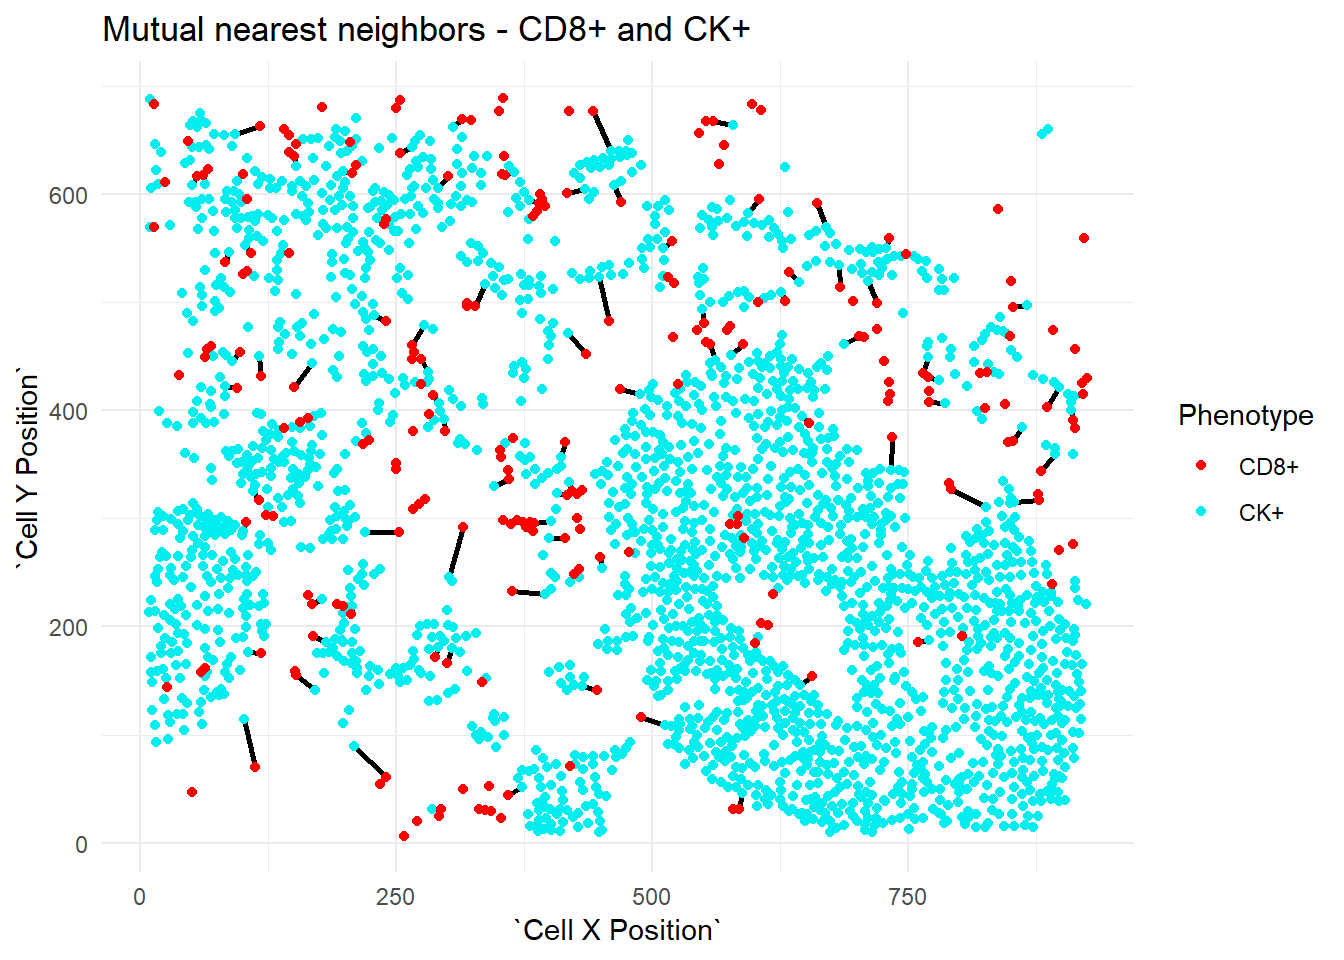
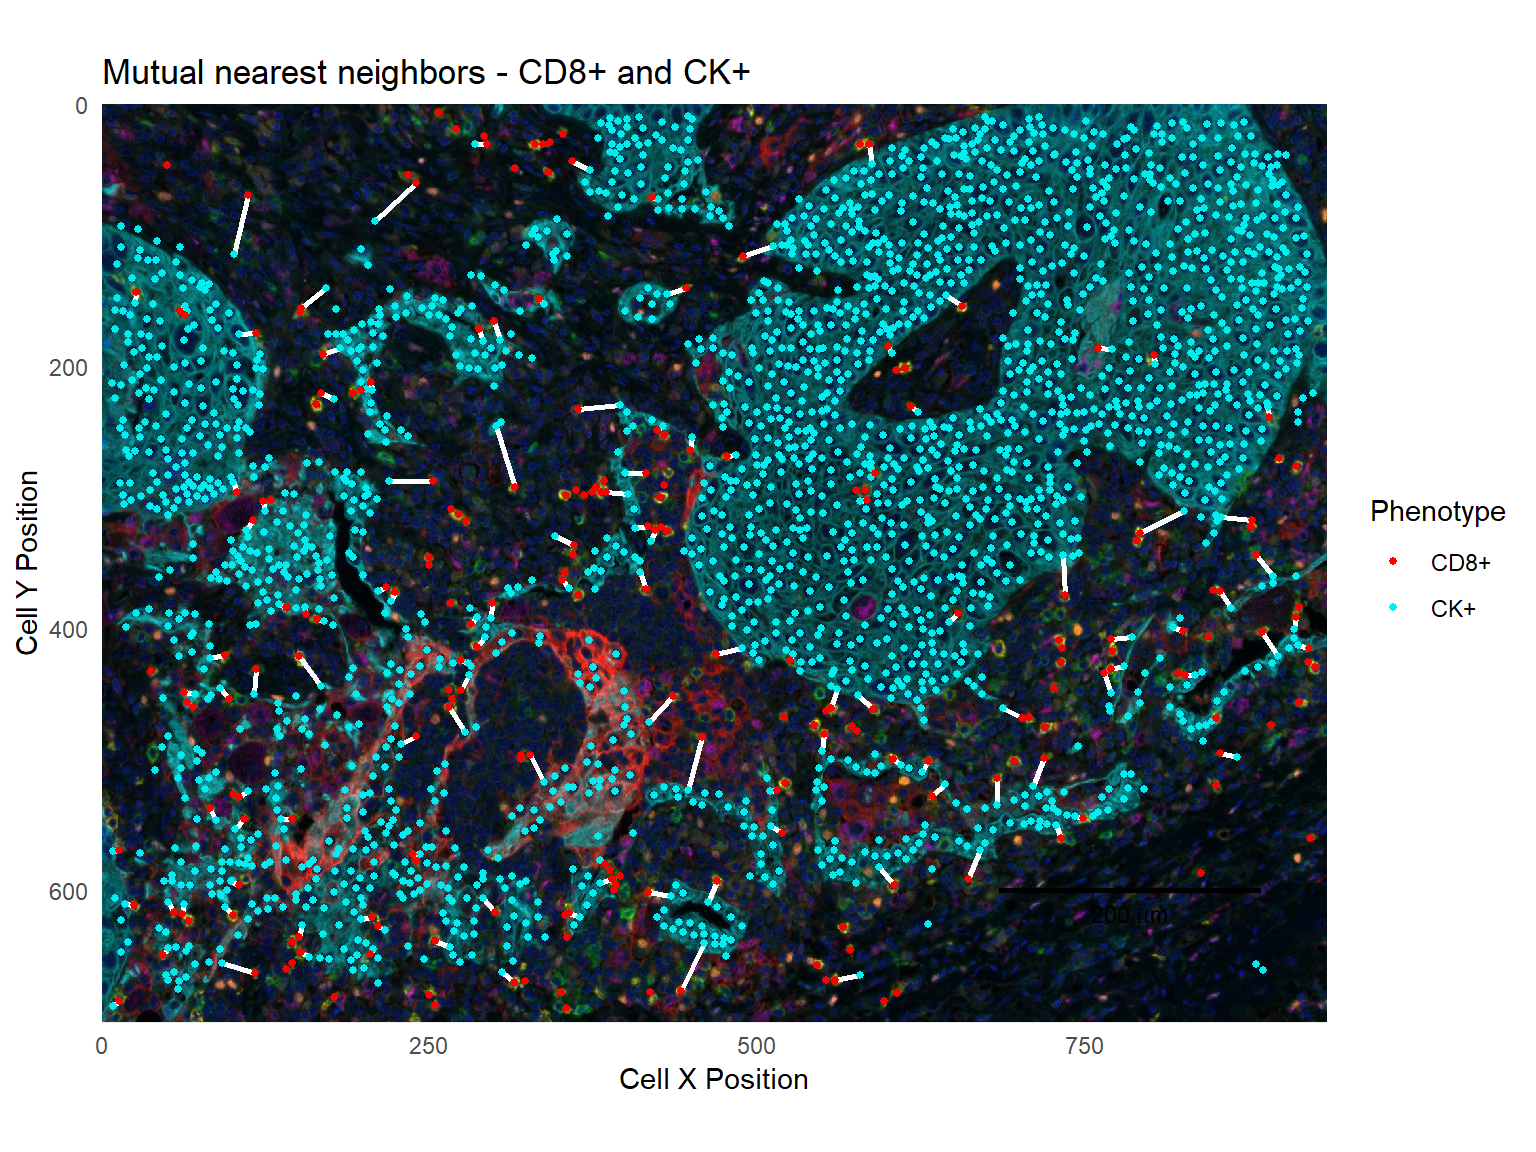
First cut at showing tissue background in Spatial Distribution Report.

diff --git a/docs/articles/computing_distances.html b/docs/articles/computing_distances.html
@@ -100,7 +100,7 @@
       <h1>Computing inter-cellular distances</h1>
                         <h4 class="author">Kent Johnson</h4>
             
-            <h4 class="date">2019-05-10</h4>
+            <h4 class="date">2019-05-14</h4>
       
       
       <div class="hidden name"><code>computing_distances.Rmd</code></div>
@@ -196,25 +196,36 @@ $ `Cell ID FoxP3+`     &lt;int&gt; 117, 214, 229, 138, 229, 102, 66, 229, 22...<
 <a class="sourceLine" id="cb14-6" title="6">cd8_to_ck =<span class="st"> </span>cd8_cells <span class="op">%&gt;%</span><span class="st"> </span><span class="kw">left_join</span>(ck_cells, <span class="dt">by=</span><span class="kw"><a href="https://www.rdocumentation.org/packages/base/topics/c">c</a></span>(<span class="st">'Cell ID CK+'</span>=<span class="st">'Cell ID'</span>),</a>
 <a class="sourceLine" id="cb14-7" title="7">                                    <span class="dt">suffix=</span><span class="kw"><a href="https://www.rdocumentation.org/packages/base/topics/c">c</a></span>(<span class="st">''</span>, <span class="st">'.CK'</span>))</a></code></pre></div>
 <p>Show the CD8+ and CK+ cells with the nearest neighbors connected:</p>
-<div class="sourceCode" id="cb15"><pre class="sourceCode r"><code class="sourceCode r"><a class="sourceLine" id="cb15-1" title="1"><span class="kw">ggplot</span>(cd8_to_ck, <span class="dt">mapping=</span><span class="kw">aes</span>(<span class="st">`</span><span class="dt">Cell X Position</span><span class="st">`</span>, <span class="st">`</span><span class="dt">Cell Y Position</span><span class="st">`</span>)) <span class="op">+</span></a>
-<a class="sourceLine" id="cb15-2" title="2"><span class="st">  </span><span class="kw">geom_segment</span>(<span class="kw">aes</span>(<span class="dt">xend=</span><span class="st">`</span><span class="dt">Cell X Position.CK</span><span class="st">`</span>, <span class="dt">yend=</span><span class="st">`</span><span class="dt">Cell Y Position.CK</span><span class="st">`</span>),</a>
-<a class="sourceLine" id="cb15-3" title="3">               <span class="dt">size=</span><span class="dv">1</span>) <span class="op">+</span></a>
-<a class="sourceLine" id="cb15-4" title="4"><span class="st">  </span><span class="kw">geom_point</span>(<span class="dt">data=</span>ck_cells, <span class="kw">aes</span>(<span class="dt">color=</span><span class="st">'CK+'</span>)) <span class="op">+</span></a>
-<a class="sourceLine" id="cb15-5" title="5"><span class="st">  </span><span class="kw">geom_point</span>(<span class="dt">data=</span>cd8_cells, <span class="kw">aes</span>(<span class="dt">color=</span><span class="st">'CD8+'</span>)) <span class="op">+</span></a>
-<a class="sourceLine" id="cb15-6" title="6"><span class="st">  </span><span class="kw">scale_color_manual</span>(<span class="st">'Phenotype'</span>, <span class="dt">values=</span><span class="kw"><a href="https://www.rdocumentation.org/packages/base/topics/c">c</a></span>(<span class="st">'CD8+'</span>=<span class="st">'red'</span>, <span class="st">'CK+'</span>=<span class="st">'cyan2'</span>)) <span class="op">+</span></a>
-<a class="sourceLine" id="cb15-7" title="7"><span class="st">  </span><span class="kw">labs</span>(<span class="dt">title=</span><span class="st">'Nearest CK+ to each CD8+'</span>)</a></code></pre></div>
-<p><img src="computing_distances_files/figure-html/unnamed-chunk-10-1.png" width="672"></p>
+<div class="sourceCode" id="cb15"><pre class="sourceCode r"><code class="sourceCode r"><a class="sourceLine" id="cb15-1" title="1"><span class="co"># Read a background image and make a base plot</span></a>
+<a class="sourceLine" id="cb15-2" title="2">background_path =<span class="st"> </span></a>
+<a class="sourceLine" id="cb15-3" title="3"><span class="st">  </span><span class="kw"><a href="https://www.rdocumentation.org/packages/base/topics/system.file">system.file</a></span>(<span class="st">"extdata/sample/Set4_1-6plex_[16142,55840]_composite_image.jpg"</span>, <span class="dt">package=</span><span class="st">'phenoptr'</span>)</a>
+<a class="sourceLine" id="cb15-4" title="4">background =<span class="st"> </span>jpeg<span class="op">::</span><span class="kw"><a href="https://www.rdocumentation.org/packages/jpeg/topics/readJPEG">readJPEG</a></span>(background_path) <span class="op">%&gt;%</span><span class="st"> </span><span class="kw"><a href="https://www.rdocumentation.org/packages/grDevices/topics/as.raster">as.raster</a></span>()</a>
+<a class="sourceLine" id="cb15-5" title="5">xlim =<span class="st"> </span><span class="kw"><a href="https://www.rdocumentation.org/packages/base/topics/c">c</a></span>(<span class="dv">0</span>, <span class="dv">934</span>)</a>
+<a class="sourceLine" id="cb15-6" title="6">ylim =<span class="st"> </span><span class="kw"><a href="https://www.rdocumentation.org/packages/base/topics/c">c</a></span>(<span class="dv">0</span>, <span class="dv">700</span>)</a>
+<a class="sourceLine" id="cb15-7" title="7">base_plot =<span class="st"> </span><span class="kw">ggplot</span>(<span class="dt">mapping=</span><span class="kw">aes</span>(<span class="st">`</span><span class="dt">Cell X Position</span><span class="st">`</span>, <span class="st">`</span><span class="dt">Cell Y Position</span><span class="st">`</span>)) <span class="op">%&gt;%</span><span class="st"> </span></a>
+<a class="sourceLine" id="cb15-8" title="8"><span class="st">  </span>phenoptr<span class="op">:::</span><span class="kw">add_scales_and_background</span>(background, xlim, ylim) <span class="op">+</span></a>
+<a class="sourceLine" id="cb15-9" title="9"><span class="st">  </span><span class="kw">labs</span>(<span class="dt">x=</span><span class="st">'Cell X Position'</span>, <span class="dt">y=</span><span class="st">'Cell Y Position'</span>) <span class="op">+</span></a>
+<a class="sourceLine" id="cb15-10" title="10"><span class="st">  </span><span class="kw">scale_color_manual</span>(<span class="st">'Phenotype'</span>, <span class="dt">values=</span><span class="kw"><a href="https://www.rdocumentation.org/packages/base/topics/c">c</a></span>(<span class="st">'CD8+'</span>=<span class="st">'red'</span>, <span class="st">'CK+'</span>=<span class="st">'cyan2'</span>))</a>
+<a class="sourceLine" id="cb15-11" title="11"></a>
+<a class="sourceLine" id="cb15-12" title="12"><span class="co"># Add lines and points</span></a>
+<a class="sourceLine" id="cb15-13" title="13">base_plot <span class="op">+</span><span class="st"> </span><span class="kw">geom_segment</span>(<span class="dt">data=</span>cd8_to_ck,</a>
+<a class="sourceLine" id="cb15-14" title="14">               <span class="kw">aes</span>(<span class="dt">xend=</span><span class="st">`</span><span class="dt">Cell X Position.CK</span><span class="st">`</span>, <span class="dt">yend=</span><span class="st">`</span><span class="dt">Cell Y Position.CK</span><span class="st">`</span>),</a>
+<a class="sourceLine" id="cb15-15" title="15">               <span class="dt">color=</span><span class="st">'white'</span>) <span class="op">+</span></a>
+<a class="sourceLine" id="cb15-16" title="16"><span class="st">  </span><span class="kw">geom_point</span>(<span class="dt">data=</span>ck_cells, <span class="kw">aes</span>(<span class="dt">color=</span><span class="st">'CK+'</span>), <span class="dt">size=</span><span class="dv">1</span>) <span class="op">+</span></a>
+<a class="sourceLine" id="cb15-17" title="17"><span class="st">  </span><span class="kw">geom_point</span>(<span class="dt">data=</span>cd8_cells, <span class="kw">aes</span>(<span class="dt">color=</span><span class="st">'CD8+'</span>), <span class="dt">size=</span><span class="dv">1</span>) <span class="op">+</span></a>
+<a class="sourceLine" id="cb15-18" title="18"><span class="st">  </span><span class="kw">labs</span>(<span class="dt">title=</span><span class="st">'Nearest CK+ to each CD8+'</span>)</a></code></pre></div>
+<p><img src="computing_distances_files/figure-html/unnamed-chunk-10-1.png" width="768"></p>
 <p>To show the nearest CD8+ for each CK+, join in the other direction; for each CK+ cell, find the nearest CD8+ cell:</p>
 <div class="sourceCode" id="cb16"><pre class="sourceCode r"><code class="sourceCode r"><a class="sourceLine" id="cb16-1" title="1">ck_to_cd8 =<span class="st"> </span>ck_cells <span class="op">%&gt;%</span><span class="st"> </span><span class="kw">left_join</span>(cd8_cells, <span class="dt">by=</span><span class="kw"><a href="https://www.rdocumentation.org/packages/base/topics/c">c</a></span>(<span class="st">'Cell ID CD8+'</span>=<span class="st">'Cell ID'</span>),</a>
 <a class="sourceLine" id="cb16-2" title="2">                                    <span class="dt">suffix=</span><span class="kw"><a href="https://www.rdocumentation.org/packages/base/topics/c">c</a></span>(<span class="st">''</span>, <span class="st">'.CD8'</span>))</a>
-<a class="sourceLine" id="cb16-3" title="3"><span class="kw">ggplot</span>(ck_to_cd8, <span class="dt">mapping=</span><span class="kw">aes</span>(<span class="st">`</span><span class="dt">Cell X Position</span><span class="st">`</span>, <span class="st">`</span><span class="dt">Cell Y Position</span><span class="st">`</span>)) <span class="op">+</span></a>
-<a class="sourceLine" id="cb16-4" title="4"><span class="st">  </span><span class="kw">geom_segment</span>(<span class="kw">aes</span>(<span class="dt">xend=</span><span class="st">`</span><span class="dt">Cell X Position.CD8</span><span class="st">`</span>, <span class="dt">yend=</span><span class="st">`</span><span class="dt">Cell Y Position.CD8</span><span class="st">`</span>),</a>
-<a class="sourceLine" id="cb16-5" title="5">               <span class="dt">size=</span><span class="dv">1</span>) <span class="op">+</span></a>
-<a class="sourceLine" id="cb16-6" title="6"><span class="st">  </span><span class="kw">geom_point</span>(<span class="dt">data=</span>ck_cells, <span class="kw">aes</span>(<span class="dt">color=</span><span class="st">'CK+'</span>)) <span class="op">+</span></a>
-<a class="sourceLine" id="cb16-7" title="7"><span class="st">  </span><span class="kw">geom_point</span>(<span class="dt">data=</span>cd8_cells, <span class="kw">aes</span>(<span class="dt">color=</span><span class="st">'CD8+'</span>)) <span class="op">+</span></a>
-<a class="sourceLine" id="cb16-8" title="8"><span class="st">  </span><span class="kw">scale_color_manual</span>(<span class="st">'Phenotype'</span>, <span class="dt">values=</span><span class="kw"><a href="https://www.rdocumentation.org/packages/base/topics/c">c</a></span>(<span class="st">'CD8+'</span>=<span class="st">'red'</span>, <span class="st">'CK+'</span>=<span class="st">'cyan2'</span>)) <span class="op">+</span></a>
+<a class="sourceLine" id="cb16-3" title="3">base_plot <span class="op">+</span><span class="st"> </span></a>
+<a class="sourceLine" id="cb16-4" title="4"><span class="st">  </span><span class="kw">geom_segment</span>(<span class="dt">data=</span>ck_to_cd8,</a>
+<a class="sourceLine" id="cb16-5" title="5">               <span class="kw">aes</span>(<span class="dt">xend=</span><span class="st">`</span><span class="dt">Cell X Position.CD8</span><span class="st">`</span>, <span class="dt">yend=</span><span class="st">`</span><span class="dt">Cell Y Position.CD8</span><span class="st">`</span>),</a>
+<a class="sourceLine" id="cb16-6" title="6">               <span class="dt">color=</span><span class="st">'white'</span>) <span class="op">+</span></a>
+<a class="sourceLine" id="cb16-7" title="7"><span class="st">  </span><span class="kw">geom_point</span>(<span class="dt">data=</span>ck_cells, <span class="kw">aes</span>(<span class="dt">color=</span><span class="st">'CK+'</span>), <span class="dt">size=</span><span class="dv">1</span>) <span class="op">+</span></a>
+<a class="sourceLine" id="cb16-8" title="8"><span class="st">  </span><span class="kw">geom_point</span>(<span class="dt">data=</span>cd8_cells, <span class="kw">aes</span>(<span class="dt">color=</span><span class="st">'CD8+'</span>), <span class="dt">size=</span><span class="dv">1</span>) <span class="op">+</span></a>
 <a class="sourceLine" id="cb16-9" title="9"><span class="st">  </span><span class="kw">labs</span>(<span class="dt">title=</span><span class="st">'Nearest CD8+ to each CK+'</span>)</a></code></pre></div>
-<p><img src="computing_distances_files/figure-html/unnamed-chunk-11-1.png" width="672"></p>
+<p><img src="computing_distances_files/figure-html/unnamed-chunk-11-1.png" width="768"></p>
 </div>
 <div id="mutual-nearest-neighbors" class="section level3">
 <h3 class="hasAnchor">
@@ -222,14 +233,14 @@ $ `Cell ID FoxP3+`     &lt;int&gt; 117, 214, 229, 138, 229, 102, 66, 229, 22...<
 <p>Mutual nearest neighbors are cells which have each other as nearest neighbors; i.e. cells where the nearest neighbor of the nearest neighbor is the starting cell:</p>
 <div class="sourceCode" id="cb17"><pre class="sourceCode r"><code class="sourceCode r"><a class="sourceLine" id="cb17-1" title="1">mutual =<span class="st"> </span>ck_to_cd8 <span class="op">%&gt;%</span><span class="st"> </span><span class="kw"><a href="https://www.rdocumentation.org/packages/stats/topics/filter">filter</a></span>(<span class="st">`</span><span class="dt">Cell ID</span><span class="st">`</span><span class="op">==</span><span class="st">`</span><span class="dt">Cell ID CK+.CD8</span><span class="st">`</span>)</a></code></pre></div>
 <p>This data set contains 126 mutual nearest neighbor pairs between CD8+ and CK+ cells.</p>
-<div class="sourceCode" id="cb18"><pre class="sourceCode r"><code class="sourceCode r"><a class="sourceLine" id="cb18-1" title="1"><span class="kw">ggplot</span>(mutual, <span class="dt">mapping=</span><span class="kw">aes</span>(<span class="st">`</span><span class="dt">Cell X Position</span><span class="st">`</span>, <span class="st">`</span><span class="dt">Cell Y Position</span><span class="st">`</span>)) <span class="op">+</span></a>
-<a class="sourceLine" id="cb18-2" title="2"><span class="st">  </span><span class="kw">geom_segment</span>(<span class="kw">aes</span>(<span class="dt">xend=</span><span class="st">`</span><span class="dt">Cell X Position.CD8</span><span class="st">`</span>, <span class="dt">yend=</span><span class="st">`</span><span class="dt">Cell Y Position.CD8</span><span class="st">`</span>),</a>
-<a class="sourceLine" id="cb18-3" title="3">               <span class="dt">size=</span><span class="dv">1</span>) <span class="op">+</span></a>
-<a class="sourceLine" id="cb18-4" title="4"><span class="st">  </span><span class="kw">geom_point</span>(<span class="dt">data=</span>ck_cells, <span class="kw">aes</span>(<span class="dt">color=</span><span class="st">'CK+'</span>)) <span class="op">+</span></a>
-<a class="sourceLine" id="cb18-5" title="5"><span class="st">  </span><span class="kw">geom_point</span>(<span class="dt">data=</span>cd8_cells, <span class="kw">aes</span>(<span class="dt">color=</span><span class="st">'CD8+'</span>)) <span class="op">+</span></a>
-<a class="sourceLine" id="cb18-6" title="6"><span class="st">  </span><span class="kw">scale_color_manual</span>(<span class="st">'Phenotype'</span>, <span class="dt">values=</span><span class="kw"><a href="https://www.rdocumentation.org/packages/base/topics/c">c</a></span>(<span class="st">'CD8+'</span>=<span class="st">'red'</span>, <span class="st">'CK+'</span>=<span class="st">'cyan2'</span>)) <span class="op">+</span></a>
+<div class="sourceCode" id="cb18"><pre class="sourceCode r"><code class="sourceCode r"><a class="sourceLine" id="cb18-1" title="1">base_plot <span class="op">+</span></a>
+<a class="sourceLine" id="cb18-2" title="2"><span class="st">  </span><span class="kw">geom_segment</span>(<span class="dt">data=</span>mutual,</a>
+<a class="sourceLine" id="cb18-3" title="3">               <span class="kw">aes</span>(<span class="dt">xend=</span><span class="st">`</span><span class="dt">Cell X Position.CD8</span><span class="st">`</span>, <span class="dt">yend=</span><span class="st">`</span><span class="dt">Cell Y Position.CD8</span><span class="st">`</span>),</a>
+<a class="sourceLine" id="cb18-4" title="4">               <span class="dt">size=</span><span class="dv">1</span>, <span class="dt">color=</span><span class="st">'white'</span>) <span class="op">+</span></a>
+<a class="sourceLine" id="cb18-5" title="5"><span class="st">  </span><span class="kw">geom_point</span>(<span class="dt">data=</span>ck_cells, <span class="kw">aes</span>(<span class="dt">color=</span><span class="st">'CK+'</span>), <span class="dt">size=</span><span class="dv">1</span>) <span class="op">+</span></a>
+<a class="sourceLine" id="cb18-6" title="6"><span class="st">  </span><span class="kw">geom_point</span>(<span class="dt">data=</span>cd8_cells, <span class="kw">aes</span>(<span class="dt">color=</span><span class="st">'CD8+'</span>), <span class="dt">size=</span><span class="dv">1</span>) <span class="op">+</span></a>
 <a class="sourceLine" id="cb18-7" title="7"><span class="st">  </span><span class="kw">labs</span>(<span class="dt">title=</span><span class="st">'Mutual nearest neighbors - CD8+ and CK+'</span>)</a></code></pre></div>
-<p><img src="computing_distances_files/figure-html/unnamed-chunk-13-1.png" width="672"></p>
+<p><img src="computing_distances_files/figure-html/unnamed-chunk-13-1.png" width="768"></p>
 <hr>
 </div>
 </div>
